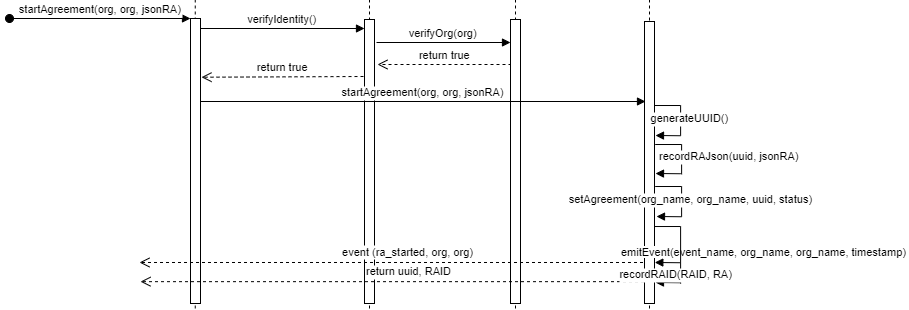
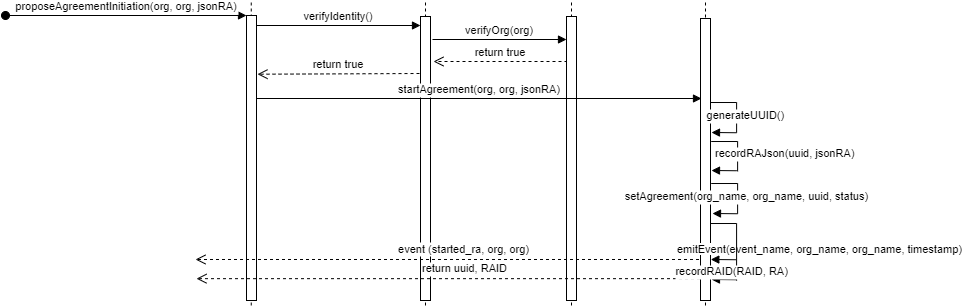
0.08.2021.3

Changed region(s): [[0.0, 0.0, 1.0, 0.9967], [0.308, 0.8795, 0.3388, 0.9381]]

diff --git a/chaincode/documentation/README.md b/chaincode/documentation/README.md
@@ -17,6 +17,9 @@
 <img src="https://github.com/sfl0r3nz05/NLP-DLT/blob/main/images/registerOrg2.png">
 
 ### Start Agreement
+|Method                    | Event                  | State                 |
+|:------------------------:|:----------------------:|:---------------------:|
+|proposeAgreementInitiation|started_ra              |started_ra             |
 - A registered organization can enable the drafting of a Roaming Agreement.
 - Identity is verified.
 - The inputs are two `json org` and `json ROAT.json`, i.e., the output of the NLP engine.
